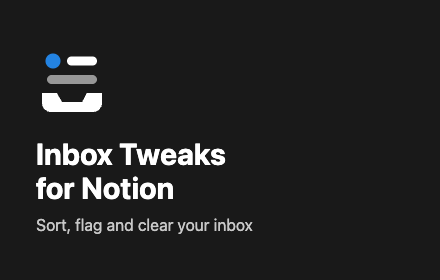
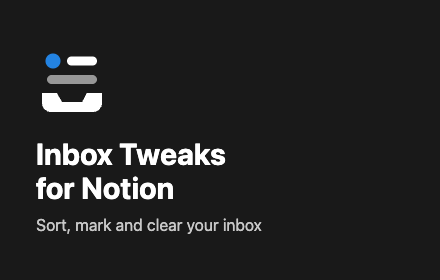
feat: rename the Flag button to Action and Unflag to No action

Changed region(s): [[0.1773, 0.7714, 0.5909, 0.8571]]

diff --git a/src/panel.js b/src/panel.js
@@ -63,7 +63,7 @@ const NotionTweaksPanel = (() => {
 
   function flagAction(item, groupName, { onMove }) {
     const isFlagged = groupName === NotionTweaksGrouping.ACTION_NEEDED_GROUP;
-    const button = el('button', { textContent: isFlagged ? 'Unflag' : 'Flag' });
+    const button = el('button', { textContent: isFlagged ? 'No action' : 'Action' });
     button.addEventListener('click', (event) => {
       if (!isRepeatClick(event)) {
         onMove(item, isFlagged ? item.homeGroup : NotionTweaksGrouping.ACTION_NEEDED_GROUP);

diff --git a/store/listing.md b/store/listing.md
@@ -21,11 +21,11 @@ Copy each field below into the Chrome Developer Dashboard. Upload the ZIP from `
 **Description:**
 
 ```text
-Sort your Notion inbox into groups, flag what needs your action, and clear the rest.
+Sort your Notion inbox into groups, mark what needs your action, and clear the rest.
 
 - Group notifications by database, with no setup.
 - Create your own groups in the panel, and move any page to a group.
-- Flag what needs your action. Flagged rows stay at the top until you are done, even when you show only unread notifications.
+- Mark what needs your action. Those rows stay at the top until you are done, even when you show only unread notifications.
 - Get one row per page, even when a page has many notifications.
 - Archive a row or a whole group, with Undo right in the row.
 - Keep your place. The list does not move under your pointer when you archive.
@@ -43,7 +43,7 @@ This extension is not affiliated with, or endorsed by, Notion Labs, Inc.
 **Single purpose:**
 
 ```text
-Show the Notion inbox in a side panel, where the user can group, flag, open, and archive notifications.
+Show the Notion inbox in a side panel, where the user can group, mark, open, and archive notifications.
 ```
 
 **Permission justifications:**
@@ -51,7 +51,7 @@ Show the Notion inbox in a side panel, where the user can group, flag, open, and
 | Permission | Justification |
 | --- | --- |
 | `sidePanel` | The inbox is shown in the Chrome side panel, which stays open while the user reads a page. |
-| `storage` | Saves the group rules, the All or Unread selection, the workspace id, and a copy of each flagged or moved row in the browser. |
+| `storage` | Saves the group rules, the All or Unread selection, the workspace id, and a copy of each row in Action needed or moved to a group in the browser. |
 | `scripting` | Opens a selected page in the existing Notion tab without a reload, and reads which Notion account is active in that tab. |
 | Host permission `https://app.notion.com/*` | Loads the inbox from Notion, and sends the archive and read updates that the user asks for. The extension accesses no other site. |
 
@@ -72,5 +72,5 @@ Show the Notion inbox in a side panel, where the user can group, flag, open, and
 ## Test instructions tab
 
 ```text
-Sign in to any Notion account at https://app.notion.com, and make sure that the inbox has at least one notification. To create one, ask another member to mention you in a comment. Select the extension icon to open the side panel. Select a row to open the page. Point to a row, and select Flag, Move, or Archive. To create a group, select Move, and select New group.
+Sign in to any Notion account at https://app.notion.com, and make sure that the inbox has at least one notification. To create one, ask another member to mention you in a comment. Select the extension icon to open the side panel. Select a row to open the page. Point to a row, and select Action, Move, or Archive. To create a group, select Move, and select New group.
 ```

diff --git a/README.md b/README.md
@@ -1,6 +1,6 @@
 # notion-tweaks
 
-The source of Inbox Tweaks for Notion, a Chrome extension that gives the Notion inbox groups, flags, and undo. The extension is not affiliated with Notion Labs, Inc. See the [privacy policy](https://gist.github.com/AlexandrosLagios/f7af4c566213874c72fd5a5e0089923c). When you change `PRIVACY.md`, update the gist as well.
+The source of Inbox Tweaks for Notion, a Chrome extension that gives the Notion inbox groups, an "Action needed" section, and undo. The extension is not affiliated with Notion Labs, Inc. See the [privacy policy](https://gist.github.com/AlexandrosLagios/f7af4c566213874c72fd5a5e0089923c). When you change `PRIVACY.md`, update the gist as well.
 
 The extension adds a Chrome side panel for the Notion web app at `https://app.notion.com`. The panel shows the inbox notifications in groups. By default, each group collects the notifications of one database, and you can create your own groups in the panel. The panel uses internal Notion endpoints, so a Notion release can break the panel.
 
@@ -48,9 +48,9 @@ Copy the database URL from the address bar of the full-page database. The option
 5. To archive a group, select "Archive" in the group header, and then select "Archive <count>?" within 3 seconds.
 6. To show only the unread notifications, select "Unread" in the header. The panel keeps the selection.
 
-To collect the notifications that need your action, point to a row, and select "Flag". The row moves to the "Action needed" section at the top. A new comment on a flagged page joins the flagged row. To remove the flag, select "Unflag", or archive the row.
+To collect the notifications that need your action, point to a row, and select "Action". The row moves to the "Action needed" section at the top. A new comment on that page joins the row. To take the row out of the section, select "No action", or archive the row.
 
-The section shows under both filters, and also when the row is older than the loaded list, because the extension saves a copy of each flagged row in `chrome.storage.local`. A flag exists only in this Chrome profile. A notification that you archive in the native Notion inbox stays in the section until you select "Unflag".
+The section shows under both filters, and also when the row is older than the loaded list, because the extension saves a copy of each row in the section in `chrome.storage.local`. The section exists only in this Chrome profile. A notification that you archive in the native Notion inbox stays in the section until you select "No action".
 
 A row holds all the notifications of one page. The row shows who acted and the text of the newest comment. "Archive" applies to all the notifications of the row.
 

diff --git a/PRIVACY.md b/PRIVACY.md
@@ -25,7 +25,7 @@ The extension sends requests only to `https://app.notion.com`, with your existin
 The extension stores these items in your browser:
 
 - Your workspace id, and your All or Unread selection, in `chrome.storage.local`.
-- A copy of each row that you flag or move to a group, in `chrome.storage.local`. The copy holds the title, the names, the comment preview of the row, and the name of the group.
+- A copy of each row that you move to "Action needed" or to another group, in `chrome.storage.local`. The copy holds the title, the names, the comment preview of the row, and the name of the group.
 - Your group rules, in `chrome.storage.sync`. If you turn on Chrome sync, Google syncs these rules between your Chrome browsers.
 
 To delete all these items, remove the extension from Chrome.
